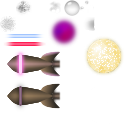
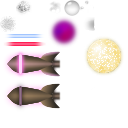
improved smoke and explosions (no additive blending anymore)
git-svn-id: https://svn.code.sf.net/p/mars-game/code@44 249382d3-5f29-4b26-bf2c-91a77bf04246

diff --git a/src/Particles/BurningFragment.cpp b/src/Particles/BurningFragment.cpp
@@ -26,13 +26,15 @@ std::list<BurningFragment*> BurningFragment::activeParticles_;
 
 BurningFragment::BurningFragment(Vector2f const& location, Vector2f const& direction, Vector2f const& velocity, Color3f const& color, Player* damageSource):
          Particle<BurningFragment>(spaceObjects::oBurningFragment, location, 1.f, 0, sf::Randomizer::Random(4.5f, 5.5f)),
-         timer1_(0.25f),
-         timer2_(0.f) {
+         color_(sf::Randomizer::Random(0.7f, 1.f), sf::Randomizer::Random(0.7f, 1.f), 0.f),
+         timer1_(0.5f),
+         timer2_(0.25f) {
 
-    radius_   = sf::Randomizer::Random(1.0f, 5.0f);
-    velocity_ = Vector2f::randDir()*sf::Randomizer::Random(400, 600);
+    radius_   = sf::Randomizer::Random(0.5f, 5.0f);
+    velocity_ = Vector2f::randDir()*sf::Randomizer::Random(200, 600);
 
-    trailEffects::attach(this, 5, 0.5f, 10.f, Color3f(0.4f, 0.1f, 0.f));
+    trailEffects::attach(this, 10, 0.3f, 10.f, Color3f(0.5f, 0.f, 0.f));
+    trailEffects::attach(this, 5, 0.1f, 6.f, color_);
 }
 
 BurningFragment::~BurningFragment() {
@@ -45,7 +47,7 @@ void BurningFragment::update() {
     physics::collide(this, STATICS | MOBILES);
 
     location_ += velocity_*time + acceleration*time*time*2;
-    velocity_ += acceleration*time*2 + velocity_*-0.5f*time;
+    velocity_ += acceleration*time*2 + velocity_*-time;
 
     if (timer1_ > 0)
         timer1_ -= time;
@@ -57,10 +59,20 @@ void BurningFragment::update() {
         timer2_ -= time;
     else {
         timer2_ = lifeTime_/settings::C_globalParticleCount;
-        particles::spawn(particles::pFragmentFlame, location_, Vector2f(radius_,0), velocity_);
+        particles::spawn(particles::pFragmentFlame, location_, Vector2f(), velocity_);
     }
 
     lifeTime_ += time;
+}
+
+void BurningFragment::draw() const {
+    color_.gl4f(-1.0/totalLifeTime_*lifeTime_+1);
+    const int posX = 5;
+    const int posY = 0;
+    glTexCoord2f(posX*0.125f,     posY*0.125f);     glVertex2f(location_.x_-radius_, location_.y_-radius_);
+    glTexCoord2f(posX*0.125f,     (posY+1)*0.125f); glVertex2f(location_.x_-radius_, location_.y_+radius_);
+    glTexCoord2f((posX+1)*0.125f, (posY+1)*0.125f); glVertex2f(location_.x_+radius_, location_.y_+radius_);
+    glTexCoord2f((posX+1)*0.125f, posY*0.125f);     glVertex2f(location_.x_+radius_, location_.y_-radius_);
 }
 
 void BurningFragment::onCollision(SpaceObject* with, Vector2f const& location,

diff --git a/src/Particles/MiniFlameSmoke.cpp b/src/Particles/MiniFlameSmoke.cpp
@@ -25,16 +25,16 @@ std::list<MiniFlameSmoke*> MiniFlameSmoke::activeParticles_;
 MiniFlameSmoke::MiniFlameSmoke(Vector2f const& location, Vector2f const& direction, Vector2f const& velocity, Color3f const& color, Player* damageSource):
            Particle<MiniFlameSmoke>(spaceObjects::oMiniFlameSmoke, location+Vector2f::randDirLen()*2.f, 4, 0, sf::Randomizer::Random(0.8f, 2.0f)) {
 
-    color_ = Color3f(0.3, 0.3, 0.3);
+    color_ = Color3f(0.9, 0.8, 0.7);
 }
 
 void MiniFlameSmoke::update() {
     float time = timer::frameTime();
     Vector2f acceleration = physics::attract(this);
 
-    color_.v(-0.5f/totalLifeTime_*lifeTime_+0.5f);
+    color_.v(-0.6f/totalLifeTime_*lifeTime_+0.9f);
     // update Size
-    radius_ = lifeTime_*5.f+2;
+    radius_ = lifeTime_*8.f;
 
     location_ = location_ + velocity_*time - 1.f*acceleration*time*time;
     velocity_ = velocity_ - 1.f*acceleration*time + velocity_*(-2)*time;
@@ -43,7 +43,7 @@ void MiniFlameSmoke::update() {
 }
 
 void MiniFlameSmoke::draw() const {
-    color_.gl4f(0.3);
+    color_.gl4f(-0.4f/totalLifeTime_*lifeTime_+0.4f);
     const int posX = 1;
     const int posY = 0;
     glTexCoord2f(posX*0.125f,     posY*0.125f);     glVertex2f(location_.x_-radius_, location_.y_-radius_);

diff --git a/src/Particles/Smoke.cpp b/src/Particles/Smoke.cpp
@@ -25,14 +25,14 @@ std::list<Smoke*> Smoke::activeParticles_;
 Smoke::Smoke(Vector2f const& location, Vector2f const& direction, Vector2f const& velocity, Color3f const& color, Player* damageSource):
            Particle<Smoke>(spaceObjects::oSmoke, location+Vector2f::randDirLen()*2.f, 4, 0, sf::Randomizer::Random(0.8f, 2.0f)*settings::C_globalParticleLifeTime/100.f) {
 
-    color_ = Color3f(0.3, 0.3, 0.3);
+    color_ = Color3f(0.7, 0.7, 0.7);
 }
 
 void Smoke::update() {
     float time = timer::frameTime();
     Vector2f acceleration = physics::attract(this);
 
-    color_.v(-0.5f/totalLifeTime_*lifeTime_+0.5f);
+    color_.v(-0.7f/totalLifeTime_*lifeTime_+0.7f);
     // update Size
     radius_ = lifeTime_*5.f+2;
 
@@ -43,7 +43,7 @@ void Smoke::update() {
 }
 
 void Smoke::draw() const {
-    color_.gl4f(0.3);
+    color_.gl4f(-0.3/totalLifeTime_*lifeTime_+0.3);
     const int posX = 1;
     const int posY = 0;
     glTexCoord2f(posX*0.125f,     posY*0.125f);     glVertex2f(location_.x_-radius_, location_.y_-radius_);

diff --git a/src/Particles/particles.cpp b/src/Particles/particles.cpp
@@ -88,8 +88,6 @@ namespace particles {
             AmmoAFK47::        drawAll();
             AmmoFlubba::       drawAll();
             Explode::          drawAll();
-            Smoke::            drawAll();
-            Dust::             drawAll();
             MiniAmmoFlubba::   drawAll();
             MiniFlame::        drawAll();
             AmmoH2OMG::        drawAll();
@@ -97,12 +95,16 @@ namespace particles {
             Mud::              drawAll();
             AmmoShotgun::      drawAll();
             AmmoROFLE::        drawAll();
+            BurningFragment::  drawAll();
+
         glEnd();
 
         glBlendFunc(GL_SRC_ALPHA,GL_ONE_MINUS_SRC_ALPHA);
         glBegin(GL_QUADS);
 
             MiniFlameSmoke::   drawAll();
+            Smoke::            drawAll();
+            Dust::             drawAll();
 
         glEnd();
         glDisable(GL_TEXTURE_2D);

diff --git a/src/Particles/Dust.cpp b/src/Particles/Dust.cpp
@@ -34,7 +34,7 @@ Dust::Dust(Vector2f const& location, Vector2f const& direction, Vector2f const& 
 void Dust::update() {
     float time = timer::frameTime();
 
-    color_.v(-0.5/totalLifeTime_*lifeTime_+0.5);
+    color_.v(-0.7/totalLifeTime_*lifeTime_+0.7);
     // update Size
     radius_ = lifeTime_/totalLifeTime_*5+5;
 
@@ -45,7 +45,7 @@ void Dust::update() {
 }
 
 void Dust::draw() const {
-    color_.gl4f(0.3f);
+    color_.gl4f(-0.3/totalLifeTime_*lifeTime_+0.3);
     const int posX = 1;
     const int posY = 0;
     glTexCoord2f(posX*0.125f,     posY*0.125f);     glVertex2f(location_.x_-radius_, location_.y_-radius_);

diff --git a/include/Particles/BurningFragment.hpp b/include/Particles/BurningFragment.hpp
@@ -26,7 +26,7 @@ class BurningFragment: public Particle<BurningFragment> {
         ~BurningFragment();
 
         void update();
-        void draw() const {}
+        void draw() const;
 
         void onCollision(SpaceObject* with, Vector2f const& location,
                          Vector2f const& direction, Vector2f const& velocity);
@@ -34,6 +34,7 @@ class BurningFragment: public Particle<BurningFragment> {
         friend class Particle<BurningFragment>;
 
     private:
+        Color3f color_;
         float timer1_, timer2_;
         static std::list<BurningFragment*> activeParticles_;
 };

diff --git a/src/Particles/AmmoShotgun.cpp b/src/Particles/AmmoShotgun.cpp
@@ -31,7 +31,7 @@ AmmoShotgun::AmmoShotgun(Vector2f const& location, Vector2f const& direction, Ve
     velocity_ = direction*1000.f + Vector2f::randDirLen()*250.f;
     location_ += velocity_*timer::frameTime()*1.2f;
 
-    trailEffects::attach(this, 5, 0.3f, 4.f, Color3f(0.3f, 0.2f, 0.05f));
+    trailEffects::attach(this, 5, 0.15f, 4.f, Color3f(0.3f, 0.2f, 0.05f));
 }
 
 AmmoShotgun::~AmmoShotgun() {

diff --git a/src/Particles/MiniFlame.cpp b/src/Particles/MiniFlame.cpp
@@ -28,7 +28,7 @@ MiniFlame::MiniFlame(Vector2f const& location, Vector2f const& direction, Vector
 
     flickerSpeed_ = sf::Randomizer::Random(0.01f, 1.f);
     timer_        = sf::Randomizer::Random(0.f, 1.f);
-    radius_       = sf::Randomizer::Random(3.0f, 8.0f);
+    radius_       = sf::Randomizer::Random(2.0f, 5.0f);
 
     color_.h(60+350);
     color_.v(0.2);

diff --git a/src/Particles/FragmentFlame.cpp b/src/Particles/FragmentFlame.cpp
@@ -29,7 +29,7 @@ FragmentFlame::FragmentFlame(Vector2f const& location, Vector2f const& direction
     location_ = location + distortion;
     velocity_ = velocity*0.5f + distortion*20.f;
 
-    radius_ = direction.x_;
+    radius_ = sf::Randomizer::Random(1.f, 3.f);
 
     color_.h(50.f);
     color_.v(0.6f);
